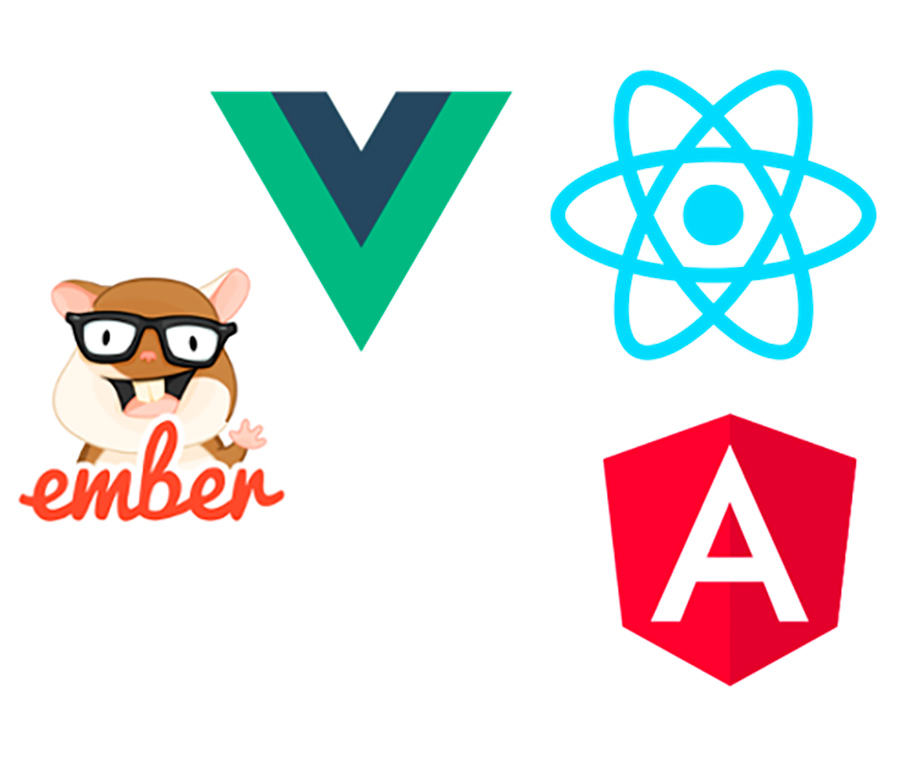
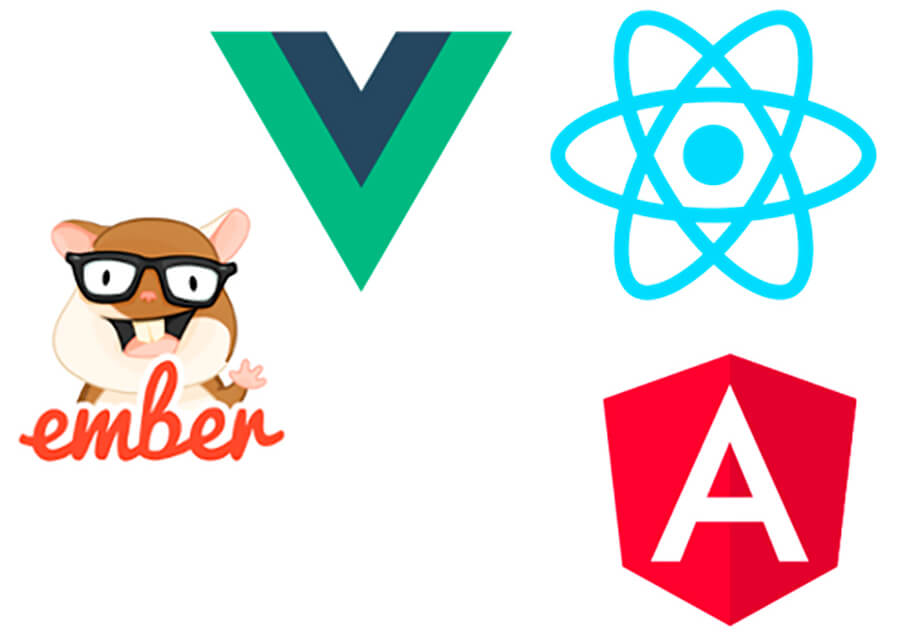
Fix scroll and optimize images

diff --git a/src/components/slides/Slide11.js b/src/components/slides/Slide11.js
@@ -17,7 +17,7 @@ class Slide11 extends Component {
             <p>O método <strong>render</strong> é onde a mágica acontece. Como o nome já diz, ele é o responsável por renderizar nosso componente no navegador.</p>
             <p>É um método puro, o que significa que ele dá a mesma saída sempre que a mesma entrada é fornecida.</p>
             <p>Toda vez que o state muda, ele é chamado automaticamente e a view é atualizada.</p>
-            <p>Um ponto importande, é que o React atualiza <strong>apenas a parte do DOM que sofreu alteração.</strong></p>
+            <p>O React atualiza <strong>apenas a parte do DOM que sofreu alteração.</strong></p>
           </div>
 
           <div className="section-react-state__image">

diff --git a/src/assets/css/slides.css b/src/assets/css/slides.css
@@ -236,7 +236,7 @@
 }
 .section-react-state__image img{
   display: block;
-  height: 100%;
+  width: 100%;
 }
 /* END: SLIDE 9 */
 
@@ -244,6 +244,9 @@
 .section-react-lifecycle__text p,
 .section-react-lifecycle__text li{
   font-size: 4vh;
+}
+.section-react-lifecycle__text li{
+  margin-bottom: 3vh;
 }
 /* END: SLIDE  12*/
 
@@ -269,7 +272,7 @@
   margin-bottom: 1vh;
   background-color: #fff;
   color:#222;
-  padding: 10px 30px;
+  padding: 5px 30px;
 }
 .section-react-lifecycle-metodos__text dd{
   font-size: 3vh;

diff --git a/src/components/slides/Slide13.js b/src/components/slides/Slide13.js
@@ -7,7 +7,7 @@ class Slide13 extends Component {
     return (
       <section className="section section-react-lifecycle-metodos">
         <header className="section__header">
-          <h1>Principais métodos do ciclo de vida do react</h1>
+          <h1>Principais métodos do ciclo de vida</h1>
         </header>
 
         <article className="section__content">
